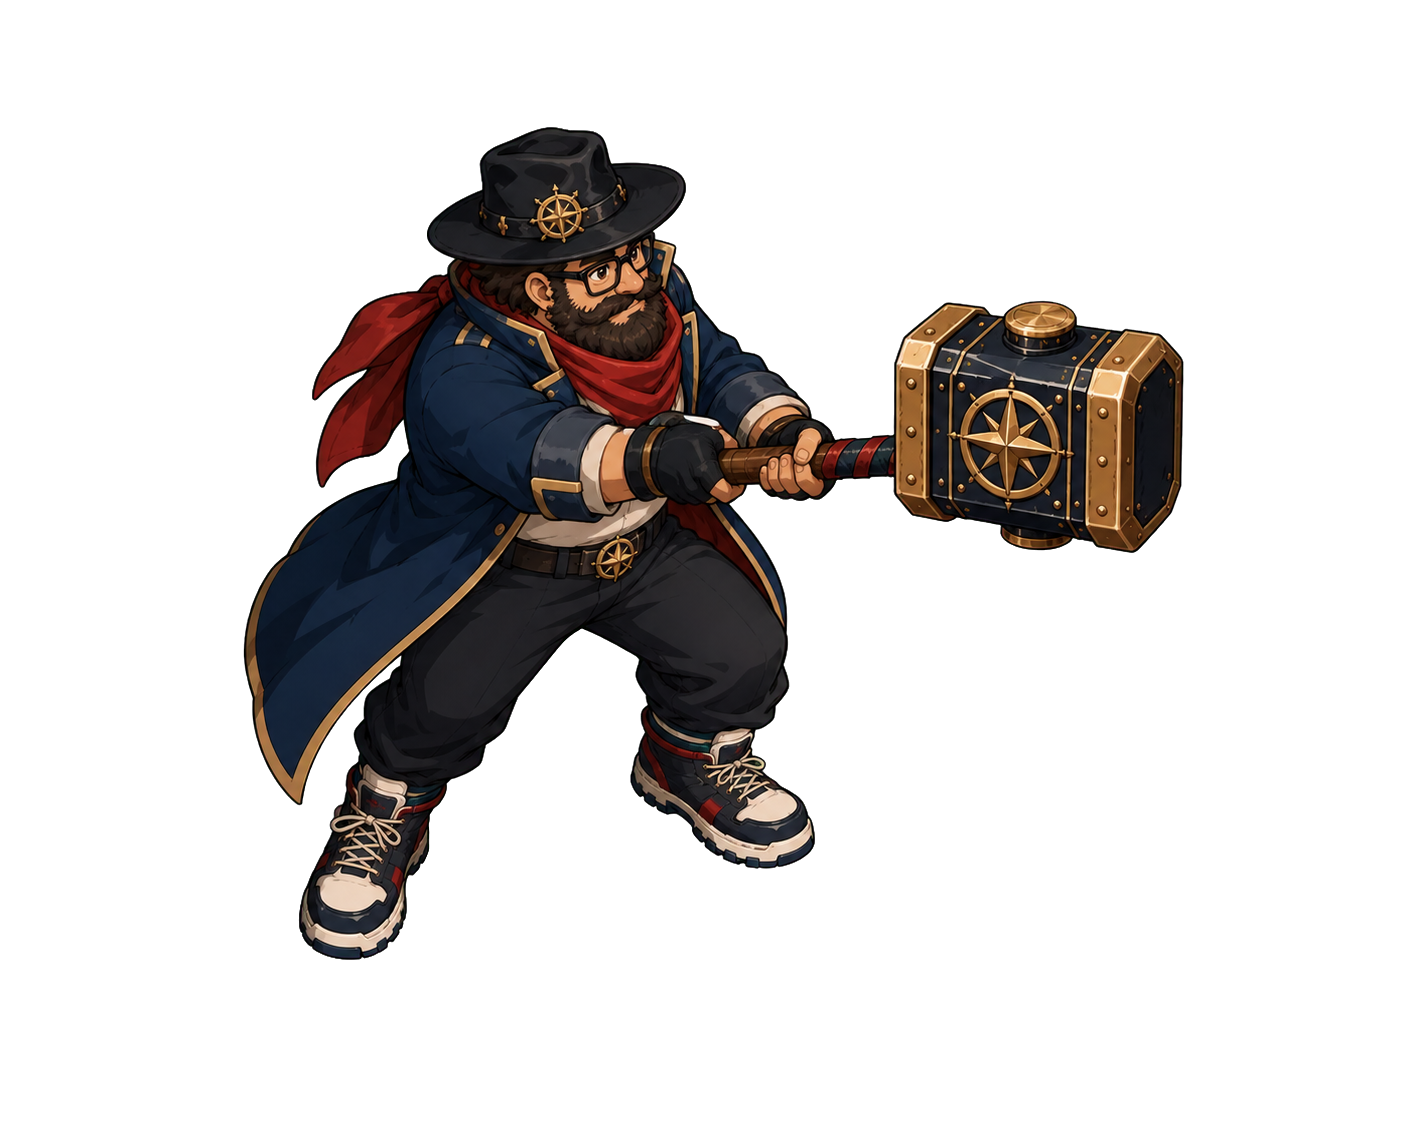
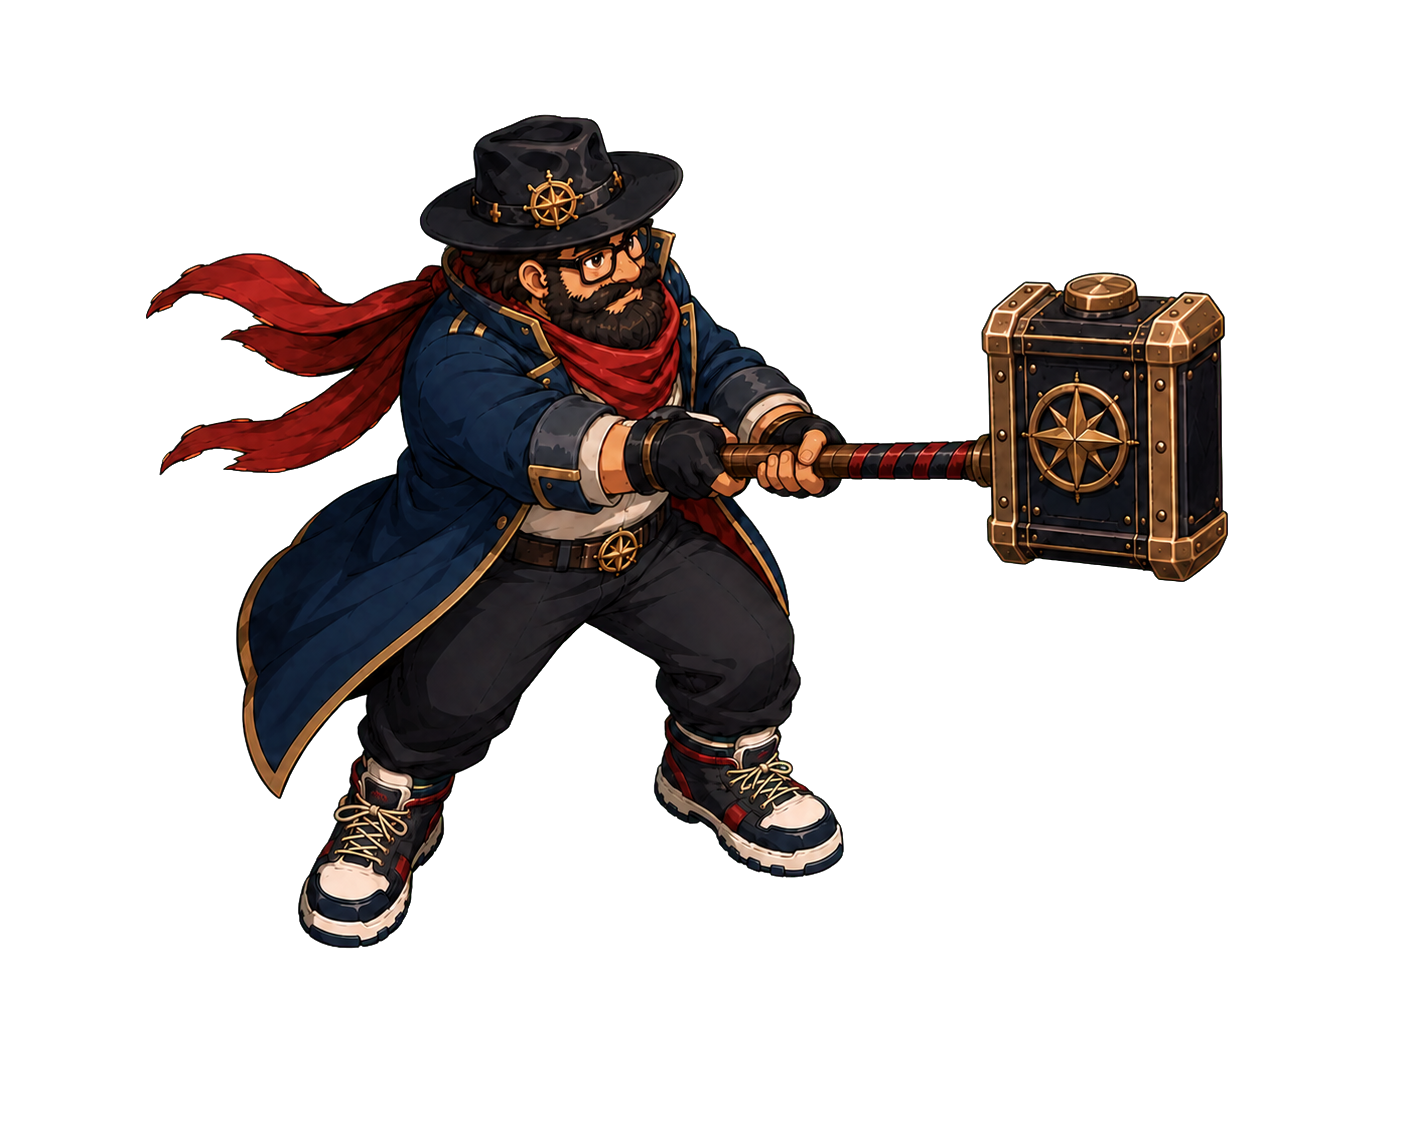
Replace base Pappa Hammer asset

Changed region(s): [[0.092, 0.0936, 0.8894, 0.8734], [0.2454, 0.4991, 0.276, 0.5303]]

diff --git a/script.js b/script.js
@@ -6,12 +6,32 @@
   function syncStyle(element,property,value){let style=element.style,current=typeof style.getPropertyValue==='function'?style.getPropertyValue(property):style[property];if(current===value)return;if(typeof style.setProperty==='function')style.setProperty(property,value);else style[property]=value}
   function mixHexColor(from,to,amount){let parse=value=>{let hex=String(value||'#000000').replace('#','');if(hex.length===3)hex=hex.split('').map(part=>part+part).join('');let number=parseInt(hex.slice(0,6),16);return Number.isFinite(number)?[(number>>16)&255,(number>>8)&255,number&255]:[0,0,0]},a=parse(from),b=parse(to),t=Math.max(0,Math.min(1,Number(amount)||0));return '#'+a.map((value,index)=>Math.round(value+(b[index]-value)*t).toString(16).padStart(2,'0')).join('')}
   function loadImage(src){let image=typeof Image==='function'?new Image():document.createElement('img');image.src=src;return image}
-  const pappaHammerImage=loadImage('assets/pappa-hammer-player.png');
-  const pappaHammerSprites={
+  const pappaHammerImage=loadImage('assets/pappa-hammer-player.png?v=20260803');
+  const pappaHammerMotionGuides={
     idle:loadImage('assets/pappa-hammer-idle-v2.png'),
     run:loadImage('assets/pappa-hammer-run-v2.png'),
     attack:loadImage('assets/pappa-hammer-attack-v2.png')
   };
+  const pappaHammerSprites=Object.assign({},pappaHammerMotionGuides);
+  let pappaHammerAssetRevision=0;
+  function imageAlphaBounds(image,sx,sy,sw,sh){
+    let canvas=document.createElement('canvas'),layer=canvas.getContext('2d',{willReadFrequently:true});canvas.width=sw;canvas.height=sh;layer.drawImage(image,sx,sy,sw,sh,0,0,sw,sh);let pixels=layer.getImageData(0,0,sw,sh).data,minX=sw,minY=sh,maxX=-1,maxY=-1;
+    for(let y=0;y<sh;y+=2)for(let x=0;x<sw;x+=2)if(pixels[(y*sw+x)*4+3]>10){if(x<minX)minX=x;if(y<minY)minY=y;if(x>maxX)maxX=x;if(y>maxY)maxY=y}
+    return maxX<0?null:{x:minX,y:minY,w:maxX-minX+2,h:maxY-minY+2}
+  }
+  function buildPappaHammerAtlas(pose,sourceBounds){
+    let guide=pappaHammerMotionGuides[pose],atlas=document.createElement('canvas'),layer=atlas.getContext('2d');atlas.width=2048;atlas.height=1024;layer.imageSmoothingEnabled=true;layer.imageSmoothingQuality='high';
+    for(let frame=0;frame<8;frame++){
+      let cellX=frame%4*512,cellY=Math.floor(frame/4)*512,target=imageAlphaBounds(guide,cellX,cellY,512,512);if(!target)continue;
+      let fit=Math.min(target.w/sourceBounds.w,target.h/sourceBounds.h),width=sourceBounds.w*fit,height=sourceBounds.h*fit,x=cellX+target.x+(target.w-width)/2,y=cellY+target.y+target.h-height;
+      layer.drawImage(pappaHammerImage,sourceBounds.x,sourceBounds.y,sourceBounds.w,sourceBounds.h,x,y,width,height)
+    }
+    return atlas
+  }
+  function refreshPappaHammerAssetAtlases(){
+    if(!imageReady(pappaHammerImage)||!Object.values(pappaHammerMotionGuides).every(imageReady))return false;let sourceBounds=imageAlphaBounds(pappaHammerImage,0,0,pappaHammerImage.naturalWidth,pappaHammerImage.naturalHeight);if(!sourceBounds)return false;
+    for(const pose of Object.keys(pappaHammerSprites))pappaHammerSprites[pose]=buildPappaHammerAtlas(pose,sourceBounds);pappaHammerAssetRevision++;paperDollKey='';paperDollPreviewUrl='';paperDollAtlases={idle:null,run:null,attack:null};paperDollPreviewCache.clear();refreshPaperDoll();return true
+  }
   const paperDollSetSprites={
     hammerChoir:{
       idle:loadImage('assets/hammer-choir-idle-v1.png'),
@@ -742,7 +762,7 @@
   }
   function applyPaperDollAtlases(next,key){paperDollAtlases=next;paperDollKey=key;paperDollPreviewUrl=next.idle&&typeof next.idle.toDataURL==='function'?'url("'+next.idle.toDataURL('image/png')+'")':'url("'+next.idle.src+'")';ui.pappaHammerBaseSprite.style.backgroundImage=paperDollPreviewUrl;ui.gearCharacterHero.style.backgroundImage=paperDollPreviewUrl;if(ui.combatPortraitSprite)ui.combatPortraitSprite.style.backgroundImage=paperDollPreviewUrl;ui.gearCharacterHero.dataset.gearVisualKey=paperDollLoadoutKey()}
   function refreshPaperDoll(){
-    let fullSetId=equippedFullSetId(),setReady=paperDollSetReady(fullSetId),key=(setReady?'skin:'+fullSetId+':':'paper:')+paperDollLoadoutKey();if(key===paperDollKey&&paperDollAtlases.idle)return;if(!setReady&&!paperDollAssetsReady())return;
+    let fullSetId=equippedFullSetId(),setReady=paperDollSetReady(fullSetId),key=(setReady?'skin:'+fullSetId+':':'paper:'+pappaHammerAssetRevision+':')+paperDollLoadoutKey();if(key===paperDollKey&&paperDollAtlases.idle)return;if(!setReady&&!paperDollAssetsReady())return;
     if(setReady){gearPerf.paperDollBuilds++;applyPaperDollAtlases(paperDollSetSprites[fullSetId],key);return}
     let next={};gearPerf.paperDollBuilds++;for(const pose of PAPER_DOLL_POSES)next[pose]=composePaperDollPose(pose);applyPaperDollAtlases(next,key)
   }
@@ -3595,7 +3615,7 @@
   canvas.addEventListener('pointerdown',beginFloatingStick,{passive:false});canvas.addEventListener('pointermove',moveFloatingStick,{passive:false});canvas.addEventListener('pointerup',event=>endFloatingStick(event,false));canvas.addEventListener('pointercancel',event=>endFloatingStick(event,false));canvas.addEventListener('lostpointercapture',event=>endFloatingStick(event,false));
   let lastTouchEnd=0,lastTouchTarget=null;document.addEventListener('touchend',e=>{let now=Date.now(),inventoryItem=e.target.closest&&e.target.closest('.gearBagSlot,.inventoryV2Card'),button=e.target.closest&&e.target.closest('button');if(inventoryItem){lastTouchEnd=now;lastTouchTarget=e.target;return}if(now-lastTouchEnd<340&&e.target===lastTouchTarget){e.preventDefault();if(button&&!button.disabled)button.click()}lastTouchEnd=now;lastTouchTarget=e.target},{passive:false});for(const event of ['gesturestart','gesturechange','gestureend','dblclick'])document.addEventListener(event,e=>e.preventDefault(),{passive:false});document.addEventListener('contextmenu',e=>e.preventDefault());
 
-  for(const pose of PAPER_DOLL_POSES){pappaHammerSprites[pose].addEventListener('load',refreshPaperDoll);for(const slot of GEAR_SLOTS)paperDollMasks[pose][slot].addEventListener('load',refreshPaperDoll);for(const setId of Object.keys(paperDollSetSprites))paperDollSetSprites[setId][pose].addEventListener('load',refreshPaperDoll)}
+  pappaHammerImage.addEventListener('load',refreshPappaHammerAssetAtlases);for(const pose of PAPER_DOLL_POSES){pappaHammerMotionGuides[pose].addEventListener('load',refreshPappaHammerAssetAtlases);for(const slot of GEAR_SLOTS)paperDollMasks[pose][slot].addEventListener('load',refreshPaperDoll);for(const setId of Object.keys(paperDollSetSprites))paperDollSetSprites[setId][pose].addEventListener('load',refreshPaperDoll)}
   for(const atlas of Object.values(productionGearAtlases))atlas.image.addEventListener('load',refreshPaperDoll);
-  installInventoryV2Bridge();installPlaywrightBridge();bindContextHelp();syncRequestedQuality();resetXpPresentation();persist();refreshBase();updateCargoHud();syncSettings();setView('base');requestAnimationFrame(loop);
+  refreshPappaHammerAssetAtlases();installInventoryV2Bridge();installPlaywrightBridge();bindContextHelp();syncRequestedQuality();resetXpPresentation();persist();refreshBase();updateCargoHud();syncSettings();setView('base');requestAnimationFrame(loop);
 })();
